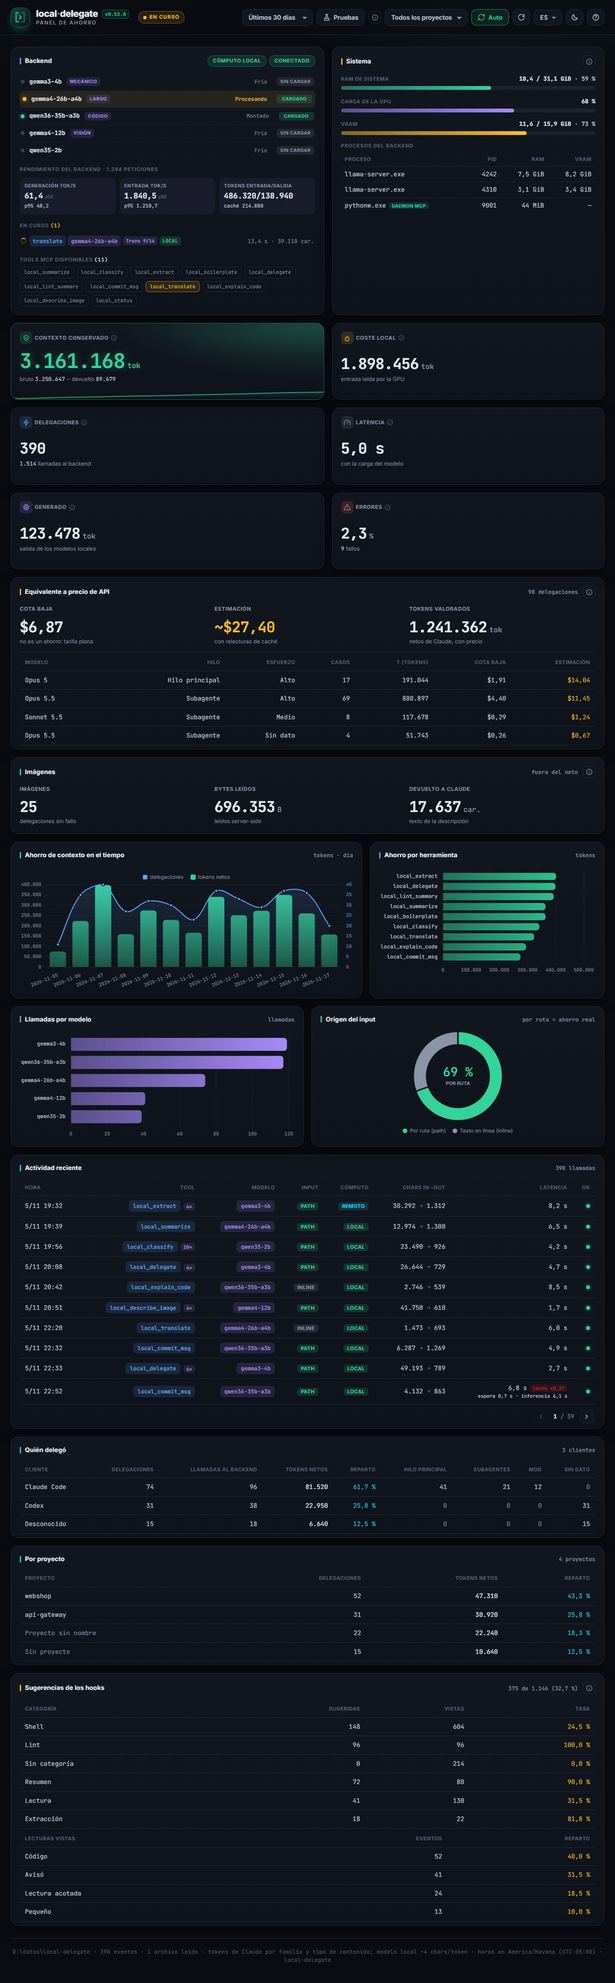
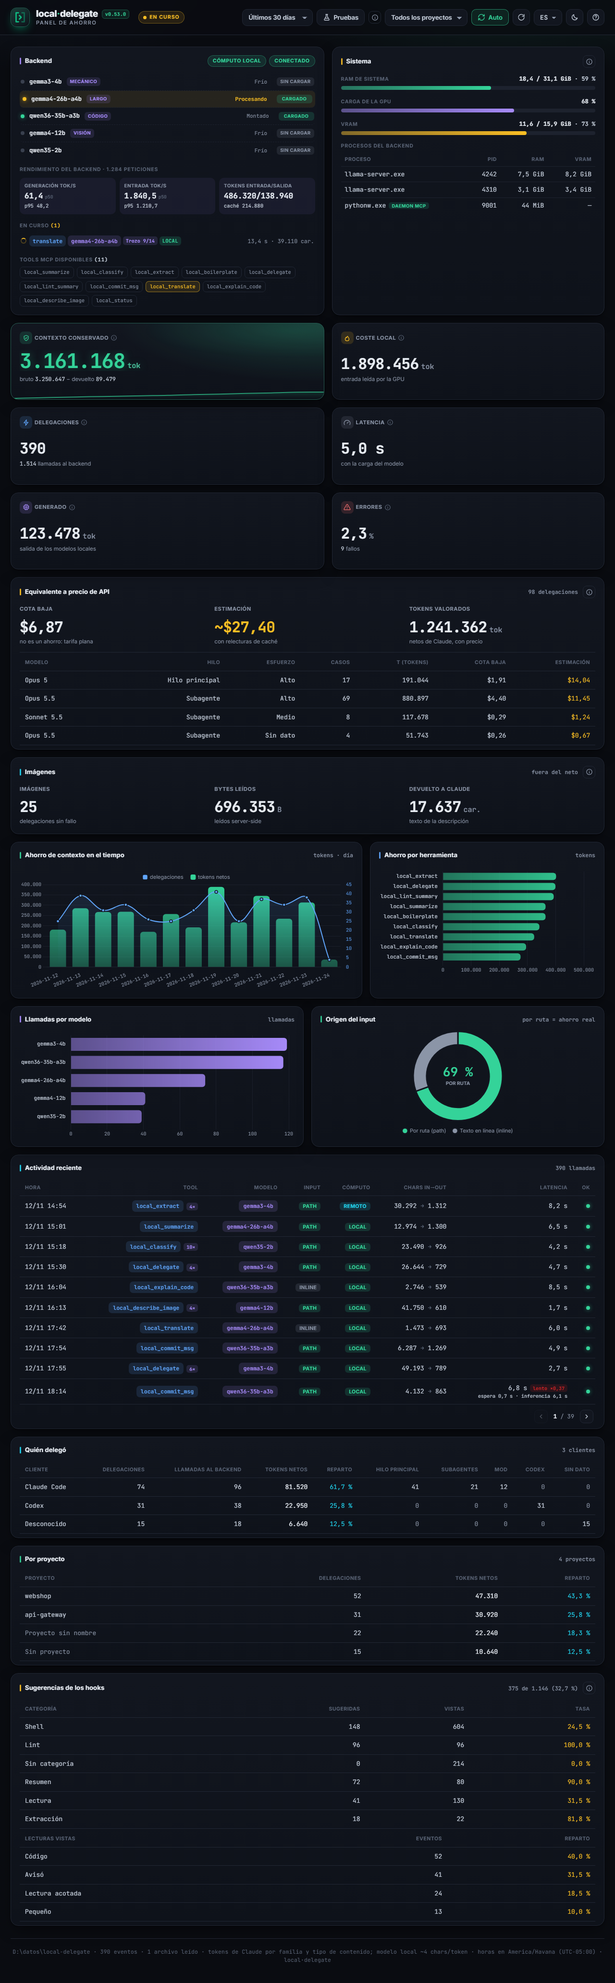
docs(codex): matriz de capacidades al día, capturas con la columna Codex y pasos de la prueba real (#669, #670, #671)
- Codex-capabilities.md: cuatro hooks; atribución por sesión y guard de lectura implementados y configurados desde la 0.53.0.
- Capturas del panel claro/oscuro regeneradas (0.53.0).
- Evidencia en vivo de #665 y #684 (ventana de prueba w-20261123T105026Z) y pasos de la prueba con Codex real.

diff --git a/.sdd/changes/codex-issues-audit-2026-11-23.md b/.sdd/changes/codex-issues-audit-2026-11-23.md
@@ -1,0 +1,129 @@
+# Auditoría: qué falta para cerrar #669, #670 y #671 (Codex nativo)
+
+- Fecha: 2026-11-23, 07:44 hora de Uruguay. Revisión de `main`: `a776da37` (0.53.0), CI de `main` en verde.
+- Fuentes: los tres issues (sin comentarios), nota del vault
+  `projects/local-delegate/jornada-2026-11-16-diez-issues-y-codex-nativo.md`, memoria
+  `cerrar-el-sdd-es-parte-de-terminar.md`, artefactos de los SDD y código de `main`.
+- Solo lectura: sin cambios de código, sin cerrar SDD, sin commits. `local-delegate doctor` se corrió
+  una vez (solo lectura).
+
+## Hallazgos que cambian el plan
+
+1. **En esta PC los hooks de Codex no están instalados.** `doctor` (0.53.0) dice: «hooks de
+   local-delegate en Codex: no instalados en `~\.codex\hooks.json`» y «MCP en Codex: entrada http
+   puesta a mano (sin marcadores)» [WARN]. La prueba con Codex real no ha empezado. Codex CLI 0.169.0
+   está instalado **en la PC**, así que la prueba se puede hacer aquí; la Mac solo hace falta para
+   repetirla allí o para Codex Desktop si solo está en la Mac.
+2. **La matriz de capacidades de la wiki está desfasada** (`docs/wiki/Codex-capabilities.md:28-34`):
+   la fila «Hooks consultivos» nombra solo `UserPromptSubmit` y `SubagentStart` (ya son cuatro hooks),
+   y las filas «Atribución por sesión» y «Lectura automática y guard de escritura» dicen «no disponible
+   todavía, se hace en #669/#670», cuando ambas se publicaron en la 0.53.0. El README
+   (`README.md:393-407`) y `Integration-install.md:484-543` sí están al día. Esto incumple el criterio
+   de #671 «README/recetas/doctor alineados con capacidades reales».
+3. Los issues #665, #684 y #687 ya están **cerrados** en GitHub, pero sus SDD siguen abiertos y la
+   jornada del 2026-11-16 dejó pendiente su prueba en vivo.
+
+## #669 — Entrega Codex nativa (hooks, instalador, diagnóstico, atribución)
+
+| Criterio | Estado | Evidencia |
+| --- | --- | --- |
+| Adaptador con la forma de hooks real de Codex | hecho | `src/local_delegate/codex_hooks.py:73-80` (`SPECS`: 4 hooks); PR #682 y #686 |
+| Cubrir prompts, subagentes, shell, MCP y code mode | hecho (código y fixtures) | `tests/fixtures/codex_hooks/` (bash, apply_patch, mcp, mcp_subagent, code_mode, other_mcp, esquemas oficiales de `rust-v0.169.0`); `tests/test_codex_attribution.py:169,381` |
+| install/update/doctor/uninstall, idempotencia, respaldo, coexistencia | hecho | `install.py:2964-2993` (`_uninstall_codex_hooks_action`), `install.py:3528`; `checks.py:1365-1400`; wiki `Integration-install.md:484-543` |
+| Controles negativos (matcher equivocado, campos ausentes) | hecho | review deep de `codex-session-attribution` (REQ-002, REQ-005) |
+| No generar `trusted_hash` ni saltarse la revisión de confianza | hecho | `checks.py:1396` y `codex_hooks.py:320-335` solo leen `[hooks.state]` |
+| Atribución solo con datos observados; desconocido si faltan | hecho en código | `codex-session-attribution/handoff.md` (Decisions); doc en `Savings-and-metrics.md:826` |
+| Telemetría global frente a atribución por sesión documentada | hecho | `Integration-install.md` («Telemetría global y atribución por sesión») |
+| Falla en abierto con backend caído | hecho (tests) | REQ-003 de #670 y pruebas de `hook_common`; sin prueba real |
+| **Codex real: config estricta sin warning, hook que despacha, delegación identificada** | **falta** | REQ-012 «no»; pasos en `codex-session-attribution/handoff.md:41-61`; en la PC ni siquiera están instalados |
+| **Capturas del panel claro/oscuro (columna «Codex»)** | **falta** | REQ-008 «partial», hallazgo F4 de `review.md` |
+| Checks distinguen configurado, cargado y probado | hecho en `doctor` (aprobados N de 4 + hora de despacho) | `Integration-install.md:526-530` |
+
+Esfuerzo: capturas del panel ~15 min de agente (navegador headless, con cerrojo y máquina tranquila);
+prueba real ~30 min de Yohan (aprobar en `/hooks`) más ~15 min de agente para revisar el log de uso;
+cierre del SDD ~10 min.
+
+## #670 — Resumen de lecturas y guard de escritura
+
+| Criterio | Estado | Evidencia |
+| --- | --- | --- |
+| Vía técnica investigada y documentada (deny de `PreToolUse`) | hecho | `codex-read-summary-write-guard/handoff.md` (Decisions); wiki `Integration-install.md:545-` |
+| Prosa grande, código, rangos y acumulada, shell, MCP, `apply_patch` | hecho con fixtures | `verification.md` REQ-002..REQ-007; `tests/test_codex_reads.py` |
+| Resumen inválido o backend caído → la lectura real pasa | hecho (tests) | REQ-003 |
+| Guard hasta lectura literal; alcance por agente; sobrevive a otro proceso | hecho (tests) | REQ-005, REQ-006 |
+| Sin secretos en estado/logs | hecho (tests) | REQ-009 |
+| **Prueba real con centinela** (el original no entra al contexto; `apply_patch` rechazado y levantado; daemon parado; forma del `command` en Windows) | **falta** | `verification.md` «Deviations»; wiki `Integration-install.md:592` |
+| **Revisión de resultado deep** (2 jueces + seguridad) | **falta** | `review.md` es la plantilla con TBD |
+| Puerta `quality` | falta aprobarla | el CI completo del PR #686 ya está en verde: es la evidencia |
+
+Esfuerzo: revisión deep ~1 h de agentes (2 jueces + revisor de seguridad, en serie por la RAM);
+prueba real ~30 min de Yohan; cierre ~15 min.
+
+## #671 — Matriz de capacidades
+
+| Criterio | Estado | Evidencia |
+| --- | --- | --- |
+| Tabla por superficie con estados implementado/configurado/cargado/probado/no disponible | hecho, **pero desfasada** | `docs/wiki/Codex-capabilities.md:13-34` (ver hallazgo 2) |
+| Contraste con la fuente y runtime de Codex CLI | hecho | `verification.md` REQ-004 (`codex debug prompt-input`: 11 tools encendidas, 0 apagadas) |
+| Alternativa para tools fijadas (`--codex-direct-tools`) | hecho | `tests/test_codex_direct_tools.py`; README `:484-493` |
+| Comandos sin modelo y barra de estado declarados «no disponible» con fuente | hecho | `Codex-capabilities.md:83-113` |
+| **Codex Desktop** | **falta** | `Codex-capabilities.md:114-121`, punto 5 |
+| **Prueba en vivo de tools directas** | **falta** | mismos pasos 1-4 |
+| Tarjeta de seguimiento «subcomando de CLI para `!` en Codex» | falta comprobar/crear en Project 3 | `codex-capability-matrix/handoff.md:225` |
+
+Esfuerzo: actualizar la matriz ~20 min de agente (más `tests/test_wiki.py` con cerrojo); prueba en
+vivo CLI ~10 min y Desktop ~10 min de Yohan; cierre ~5 min.
+
+## Los cinco SDD abiertos
+
+`personal-harness sdd check` (solo lectura) sobre cada uno; ninguno salta estados, así que la cadena va
+entera. Todos avisan `commands-undeclared` (sin `.sdd/project.json`), que no bloquea.
+
+| SDD | Estado | Check | Paso que falta y comandos |
+| --- | --- | --- | --- |
+| `codex-session-attribution` (#669) | result-review | ok | capturas + prueba real; luego `sdd approve codex-session-attribution conformance --evidence "<capturas y prueba Codex>"` → `sdd transition codex-session-attribution closing --reason "<...>"` → `sdd approve codex-session-attribution memory --evidence "<nota del vault>"` → `sdd transition codex-session-attribution closed --reason "<...>"` |
+| `codex-read-summary-write-guard` (#670) | verifying | ok, 3 warnings de `review.md` | `sdd approve codex-read-summary-write-guard quality --evidence "CI completo del PR #686 en verde (0.53.0)"` → `sdd transition ... result-review` → rellenar `review.md` (deep) → prueba real → `approve ... conformance` → `transition ... closing` → `approve ... memory` → `transition ... closed` |
+| `codex-capability-matrix` (#671) | closing | ok | `sdd approve codex-capability-matrix memory --evidence "<nota>"` → `sdd transition codex-capability-matrix closed --reason "<...>"` (antes, arreglar la matriz desfasada, o hacerlo en un cambio aparte) |
+| `summarize-test-totals-negation` (#684) | verifying | ok, 3 warnings de `review.md` | prueba en vivo de `local_summarize` sobre salida de pytest; `approve ... quality --evidence "CI del PR #686"` → `transition ... result-review` → `review.md` (lite: standard, 2 jueces) → `approve conformance` → `closing` → `approve memory` → `closed` |
+| `extract-diff-files-names` (#665) | result-review | **3 errores**: `review.md` en plantilla (level, security, verdict) | rellenar `review.md` (2 jueces) + prueba en vivo de `local_extract` sobre un `.patch` grande → `approve ... conformance` → `closing` → `approve memory` → `closed` |
+
+Todos los comandos llevan el prefijo `personal-harness`.
+
+## Plan para cerrar hoy
+
+**Sin Codex real (agentes; máximo 2 con código a la vez, pesados con `pesado.sh`):**
+
+1. Agente A (~20 min): poner al día `docs/wiki/Codex-capabilities.md` (cuatro hooks; atribución y
+   lectura como «implementado, configurado», «probado» solo tras la prueba real) y correr
+   `tests/test_wiki.py`. PR pequeño.
+2. Agente B (~1 h): revisión de resultado deep de `codex-read-summary-write-guard` y revisión standard
+   de `extract-diff-files-names` y `summarize-test-totals-negation`; rellena los tres `review.md`.
+3. Agente C, con la máquina tranquila (~15 min): capturas claro/oscuro del panel con
+   `scripts/dev/capture_dashboard.py`.
+4. Agente D (~20 min): pruebas en vivo de #684 y #665/#687 contra el daemon, marcadas con
+   `test-window`.
+5. Sesión principal: `local-delegate install --clients codex` en la PC (deja los hooks y la entrada MCP
+   con marcadores; lo puede hacer el agente, no necesita a Yohan) y crear la tarjeta del `!` en
+   Project 3.
+
+**Con Codex real (Yohan; en la PC, que ya tiene Codex 0.169.0; la Mac solo para repetir o para
+Desktop):** ~45 min en total.
+
+1. `/hooks` en Codex: aprobar los cuatro; `doctor` debe decir «aprobados: 4 de 4».
+2. #669: delegación en el hilo principal, desde un subagente y desde code mode; un agente revisa los
+   campos del log de uso (`tool_use_id`, `caller_session_key`, `caller_src: codex-hook`,
+   `caller_model`, `caller_kind`).
+3. #670: centinela en un `.md` grande, `apply_patch` rechazado y luego levantado con un tramo literal,
+   daemon parado (la lectura pasa).
+4. #671: `install --clients codex --codex-direct-tools`, ver que el modelo llama a `local_summarize`
+   sin `tool_search`, y repetirlo en Codex Desktop.
+
+**Cierre:** las cadenas de puertas de la tabla anterior, comentario de evidencia en cada issue, cerrar
+#669/#670/#671, tarjetas a «Hecho» y nota del vault (puerta `memory`). Total aproximado: ~3 h de
+agentes en serie por recursos + ~45 min de Yohan.
+
+## Nota sobre `local-delegate`
+
+En este encargo las tools `local_*` no estaban disponibles (ToolSearch no encontró ninguna), aunque el
+hook de lectura siguió recomendando cargarlas. Llamadas `local_*` hechas: 0. Los artefactos leídos
+eran pequeños (menos de 8 KB) y se leyeron por rangos.

diff --git a/.sdd/changes/codex-pasos-para-yohan.md b/.sdd/changes/codex-pasos-para-yohan.md
@@ -1,0 +1,109 @@
+# Prueba con Codex real en la PC: qué tienes que hacer tú (#669, #670, #671)
+
+Escrito el 2026-11-23. Lo demás ya está hecho: los cuatro hooks están en `~\.codex\hooks.json`
+(`doctor`: «configurados 4 de 4; aprobados 0 de 4»), tus hooks de antes siguen intactos y la entrada
+MCP de Codex (http a `127.0.0.1:9393/mcp`) no se tocó. Copia de antes en la carpeta `codex-backup`
+del scratchpad de la sesión. Tiempo estimado: unos 45 min.
+
+## 0. Antes de empezar (1 min)
+
+```powershell
+local-delegate test-window start --label codex-real-669-670-671   # apunta el id que imprime
+local-delegate doctor | Select-String "Codex"
+```
+
+## 1. Aprobar los hooks (#669, 2 min)
+
+1. Abre Codex (`codex`) en cualquier carpeta y escribe `/hooks`.
+2. Aprueba los cuatro: `codex-prompt`, `codex-subagent-start`, `codex-tool-guard`, `codex-mcp-call`.
+   No toques los tuyos (`advise_delegate_read`, `pre-tool-use.mjs`, `advise_lint_summary`, relevo).
+3. Sal de Codex y corre `local-delegate doctor`: debe decir «aprobados en /hooks: 4 de 4». Si dice
+   «0 de 4» tras aprobarlos, para aquí y avísame: es un fallo.
+
+## 2. Delegaciones atribuidas por sesión (#669, 10 min)
+
+En **una sola sesión nueva** de Codex, abierta en `D:\Projects\local-delegate`, pide en orden:
+
+1. Hilo principal: `resume README.md con local_summarize en cinco viñetas`.
+2. Subagente: `lanza un subagente que resuma docs/wiki/Tools.md con local_summarize y te dé el resultado`.
+3. Code mode (si lo tienes encendido): `desde código, llama a local_extract sobre CHANGELOG.md con el campo version`.
+4. Un prompt mecánico sin nombrar la tool: `extrae las versiones que aparecen en CHANGELOG.md`
+   (debe salir el aviso de `codex-prompt` a favor de `local_extract`).
+
+Apunta la hora (Uruguay) del primer y del último prompt. No cierres la sesión hasta el paso 3.
+
+## 3. Resumen de lecturas y guard de escritura (#670, 15 min)
+
+Crea el centinela fuera del repo (prosa de unos 12 KB con una palabra rara solo a mitad):
+
+```powershell
+$d = "$env:TEMP\ld-centinela"; New-Item -ItemType Directory -Force $d | Out-Null
+$p = 1..60 | ForEach-Object { "Párrafo $_ de prueba: el inventario del almacén se revisa cada semana y las diferencias se anotan en el registro general para la auditoría del trimestre." }
+$p[30] = $p[30] + " La clave interna de este documento es ZEBRA-4417."
+Set-Content -Path "$d\centinela.md" -Value ($p -join "`n`n") -Encoding utf8
+(Get-Item "$d\centinela.md").Length   # debe pasar de 8192
+```
+
+Abre **otra** sesión de Codex en esa carpeta (`cd $env:TEMP\ld-centinela; codex`) y pide:
+
+1. `lee centinela.md con cat y dime de qué trata`. Debe contestar con el resumen; en pantalla, el
+   aviso de que el hook bloqueó la orden.
+2. `¿qué palabra rara o clave aparece a mitad del fichero?` No debe saber `ZEBRA-4417` (si la dice,
+   el original entró al contexto: fallo).
+3. `cambia la primera línea de centinela.md por "Título de prueba"`. El `apply_patch` debe
+   **rechazarse** con el aviso de leer un tramo literal.
+4. `lee las primeras 40 líneas con Get-Content -TotalCount 40 y vuelve a intentar el cambio`. Ahora
+   el cambio **pasa**.
+5. Daemon parado (la lectura debe pasar tal cual). En otra consola:
+
+   ```powershell
+   $pid9393 = (Get-NetTCPConnection -LocalPort 9393 -State Listen).OwningProcess
+   schtasks /End /TN LocalDelegateDaemon; Stop-Process -Id $pid9393 -Force
+   ```
+
+   En la sesión del centinela pide de nuevo `lee centinela.md con cat`: ahora Codex lee el fichero
+   entero. Vuelve a arrancar el daemon: `schtasks /Run /TN LocalDelegateDaemon` y comprueba
+   `local-delegate doctor` (backend conectado).
+
+## 4. Tools directas sin `tool_search` (#671, 10 min)
+
+```powershell
+local-delegate install --clients codex --mcp-mode http --codex-direct-tools --no-hooks --no-memory --no-skill --dry-run
+```
+
+Debe enseñar la misma entrada (`url = "http://127.0.0.1:9393/mcp"`, tu `bearer_token_env_var`) más
+`omit_tools_from = ["deferred"]`. Si es así, repítelo sin `--dry-run` y acepta reemplazar la entrada
+puesta a mano (deja `config.toml.bak`). Abre una sesión nueva de Codex y pide
+`resume docs/wiki/Codex-capabilities.md en cinco viñetas`: el modelo debe llamar a
+`local_summarize` **sin** pasar antes por `tool_search`. Repite ese mismo prompt en **Codex Desktop**
+si lo tienes en la PC (si solo está en la Mac, dilo y queda para allí). Vuelta atrás, si no lo
+quieres encendido: el mismo comando con `--no-codex-direct-tools`.
+
+## 5. Al terminar
+
+```powershell
+local-delegate test-window stop <id del paso 0>
+local-delegate doctor | Select-String "Codex"
+```
+
+Dime: el id de la ventana, las horas de los pasos 2 y 3, si en el paso 3 Codex supo la palabra
+rara, si el `apply_patch` se rechazó y luego pasó, y si en el paso 4 hubo `tool_search`.
+
+## Qué miro yo después en el log (no hace falta que lo mires tú)
+
+- `usage-202611.jsonl` del `LOG_DIR`, filas de la ventana con `client: codex-mcp-client`: llevan
+  `tool_use_id` (el de code mode empieza por `exec-`), `caller_session_key` (la misma en las tres
+  delegaciones del paso 2, también la del subagente), `caller_src: codex-hook`, `caller_model` (el
+  de Codex), `caller_kind` `main`/`subagent` y `caller_agent_type` en la del subagente. Sin
+  `tool_use_id` o sin `caller_session_key`: el `_meta` no llega como se supuso. Con `tool_use_id`
+  pero sin `caller_src`: el hook no despachó (miro `codex-hooks-seen.json` y el `tool_name` real).
+- Filas con `client: local-delegate-codex-read` en el paso 3.1 (el resumen del centinela) y ninguna
+  en el 3.5 (daemon parado).
+- `<datos>\codex-read\<session_id>.jsonl` de la sesión del centinela: solo rutas, tramos y marcas,
+  nunca texto; el transcript de esa sesión en `~\.codex\sessions\…` no contiene `ZEBRA-4417`
+  antes del paso 3.5.
+- Forma real del `command` de PowerShell que Codex pasa al hook en Windows (para cerrar la duda de
+  `verification.md` de #670).
+- Panel: «Quién delegó» con la columna «Codex»; `/api/stats?session=<id>` solo con esa sesión.
+- Con eso: puerta `conformance` y cierre de `codex-session-attribution` y
+  `codex-read-summary-write-guard`, comentario de evidencia en #669, #670 y #671 y cierre de los tres.

diff --git a/docs/wiki/Codex-capabilities.md b/docs/wiki/Codex-capabilities.md
@@ -25,13 +25,13 @@ entrada del modelo, pero ninguna fila se da por buena en Desktop.
 | --- | --- | --- | --- | --- |
 | Servidor MCP | entrada en `~/.claude.json` | `[mcp_servers.local-delegate]` en `~/.codex/config.toml` | implementado, configurado, cargado | `install.codex_mcp_block`; `doctor` (`scaffold.mcp_codex`); Codex arranca el servidor y, con las tools directas, las pone en la entrada del modelo (`codex debug prompt-input`, abajo); sin ellas quedan tras `tool_search` |
 | Instrucciones | bloque en `CLAUDE.md` y skill | bloque en `~/.codex/AGENTS.md` | implementado, configurado | `install`, componente `memory` |
-| Hooks consultivos | plugin `local-delegate@local-delegate` | `~/.codex/hooks.json`: `UserPromptSubmit` y `SubagentStart` | implementado, configurado (corren solo tras aprobarlos en `/hooks`) | [Hooks de Codex](Integration-install.md#hooks-de-codex), `codex_hooks.SPECS` |
+| Hooks | plugin `local-delegate@local-delegate` | `~/.codex/hooks.json`: cuatro hooks, `UserPromptSubmit` (`codex-prompt`), `SubagentStart` (`codex-subagent-start`) y dos de `PreToolUse` (`codex-tool-guard` sobre shell, `apply_patch` y lecturas MCP; `codex-mcp-call` sobre las tools de local-delegate) | implementado, configurado (corren solo tras aprobarlos en `/hooks`); cargado y probado quedan para la prueba en vivo | [Hooks de Codex](Integration-install.md#hooks-de-codex), `codex_hooks.SPECS`; `doctor` dice cuántos están aprobados y cuándo despachó cada uno |
 | Tools fijadas | `mod/pinned-tools.js`: 4 tools con `isDeferred: false` | `omit_tools_from = ["deferred"]` en la tabla del servidor; **todas** las tools del servidor, no una a una | implementado (opcional), configurado, cargado (`codex debug prompt-input`); el efecto en una sesión real queda para la prueba en vivo | ver [Tools directas](#tools-directas-en-vez-de-tool_search) |
 | Comandos sin modelo | `mod/commands.js`: `/local-summarize`, `/local-commit`, `/local-lint` | no hay slash commands de usuario; solo `!comando` (shell sin turno del modelo) | no disponible | ver [Comandos sin modelo](#comandos-sin-modelo) |
 | Banda de estado | `mod/status.js`: `ui.render` sobre el prompt | `/statusline` y `tui.status_line`: lista de campos fijos de Codex | no disponible | ver [Barra de estado](#barra-de-estado) |
 | Panel de ahorro | panel web del daemon | el mismo panel web (`http://127.0.0.1:9393/`) | implementado (no depende del cliente) | [Savings & metrics](Savings-and-metrics.md) |
-| Atribución por sesión | hook `record_call.py` (`PreToolUse`) | hook `PreToolUse` de Codex | no disponible todavía | se hace en #669 |
-| Lectura automática y guard de escritura | mod de lectura y hooks de lectura | hooks de Codex sobre shell y `apply_patch` | no disponible todavía | se hace en #670 |
+| Atribución por sesión | hook `record_call.py` (`PreToolUse`) | `_meta` de cada llamada MCP (`callId`, `sessionId`) más la nota del hook `codex-mcp-call` (`PreToolUse`) | implementado, configurado (desde la 0.53.0); probado queda para la prueba en vivo | #669; [Hooks de Codex](Integration-install.md#hooks-de-codex) («Telemetría global y atribución por sesión»); [Savings & metrics](Savings-and-metrics.md#delegaciones-de-codex) |
+| Lectura automática y guard de escritura | mod de lectura y hooks de lectura | hook `codex-tool-guard` (`PreToolUse` con `permissionDecision: "deny"`) sobre shell, `apply_patch` y lecturas MCP | implementado, configurado (desde la 0.53.0); probado queda para la prueba en vivo con el centinela | #670; [Resumen de lecturas y guard de escritura](Integration-install.md#resumen-de-lecturas-y-guard-de-escritura-en-codex) |
 
 ## Tools directas en vez de `tool_search`
 

diff --git a/.sdd/changes/codex-session-attribution/review.md b/.sdd/changes/codex-session-attribution/review.md
@@ -18,7 +18,7 @@
 | REQ-005 | yes | yes | casos «nota de otro id» y «`codex-<id>.json` sin `client: codex`» añadidos (A-H2, B3) |
 | REQ-006 | yes | yes | control `claude-code` en cada caso |
 | REQ-007 | yes | yes | `excluded_by_reason == {"not_claude": 1}` |
-| REQ-008 | yes | partial | código y `/api/stats` probados; la tarjeta solo por su fuente; capturas claro/oscuro pendientes (A-H4, B4): las lanza la sesión principal |
+| REQ-008 | yes | yes | código y `/api/stats` probados; capturas claro/oscuro del 2026-11-23 (`docs/assets/dashboard.png` y `dashboard-light.png`, 0.53.0, contra el árbol con `scripts/dev/capture_dashboard.py`): la tarjeta «Quién delegó» enseña la columna «Codex» con 31 en la fila `Codex` y 0 en las demás |
 | REQ-009 | yes | yes | `?session=` de Codex |
 | REQ-010 | yes | yes | `codex` en `delegations_by_caller` |
 | REQ-011 | yes | yes | `doctor` distingue el hook que falta (B1) y lo prueba el paso de dos a tres (B2); docstrings y lista de `caller_src` al día (B5, B6) |
@@ -31,7 +31,7 @@
 | F1 | Falta el caso Codex con `claudecode/toolUseId` y sin `callId` | H1 | — | suspected | test añadido |
 | F2 | Falta el caso «nota de otro id» | H2 | B3 (variante: `client`) | confirmed | dos casos añadidos |
 | F3 | Fila de Codex sin nota recibe el respaldo de modelo de Claude en la fusión | H3 | — | suspected | aceptado: solo sirve a la densidad de filas ya excluidas del coste; el recibo en curso queda como antes a propósito (un fix no cambia otra cosa); si molesta en el panel, siguiente PR |
-| F4 | Capturas claro/oscuro de REQ-008 pendientes | H4 | B4 | confirmed | pendientes para la sesión principal; `conformance` no se aprueba hasta tenerlas |
+| F4 | Capturas claro/oscuro de REQ-008 pendientes | H4 | B4 | confirmed | hechas el 2026-11-23 (`docs/assets/dashboard.png`, `dashboard-light.png`; manifiestos con versión 0.53.0); la columna «Codex» se ve en los dos temas |
 | F5 | `hook_key` del test no salía de un fichero fusionado | H5 | — | suspected | test reescrito con `merge` + `inspect` + `config.toml` |
 | F6 | `agent_id`/`agent_type` sin forma ni tope | H6 | — | confirmed | `_shaped` con patrones acotados; test con control |
 | F7 | `doctor` decía «no son de esta versión… aprobar otra vez» para el hook que falta | — | B1 | suspected | texto propio `doctor.probe.codex_hooks.missing` (es/en) |
@@ -43,5 +43,7 @@
 
 ## Required follow-up
 
-- Capturas del panel en claro y oscuro (F4) antes de aprobar `conformance`.
-- Prueba con Codex real (REQ-012), pasos en `handoff.md`.
+- Capturas del panel en claro y oscuro (F4): hechas el 2026-11-23.
+- Prueba con Codex real (REQ-012), pasos en `handoff.md` y en `.sdd/changes/codex-pasos-para-yohan.md`;
+  hasta entonces `conformance` no se aprueba. Los hooks ya están instalados en la PC (doctor:
+  configurados 4 de 4, aprobados 0 de 4).

diff --git a/.sdd/changes/extract-diff-files-names/evidence/vivo-2026-11-23.md b/.sdd/changes/extract-diff-files-names/evidence/vivo-2026-11-23.md
@@ -1,0 +1,21 @@
+# Prueba en vivo de `local_extract` sobre un `.patch` sintético (2026-11-23)
+
+- Daemon instalado 0.53.0 (incluye #676), por `http://127.0.0.1:9393/mcp` con el token del puerto.
+- Ventana de prueba `w-20261123T105026Z` (`codex-cierre-sdd-665-684-vivo`), de 07:50:26 a 07:52:49
+  hora de Uruguay; 6 filas del log de uso dentro.
+- Entrada sintética: `format-patch` de 81 868 bytes y 1 766 líneas, con preámbulo de 8 líneas
+  (`From …`, `Subject: [PATCH] …`, `---`) antes del primer `diff --git`, 14 ficheros: 6 nuevos
+  (`@@ -0,0 +1,260 @@`) y 8 modificados con 2 hunks cada uno, y la firma `-- `/`2.47.0` al final.
+
+| Llamada | Resultado | Requisitos |
+| --- | --- | --- |
+| `fields=["ficheros_y_hunks_con_lineas","asunto"]` (48 s) | 14 entradas `ruta: primera-última (hunks: …)`; los rangos cuadran con el generador (p. ej. `modulo_00.py: 9-274 (hunks: 14-274)`, `modulo_06.py: 1605-1624 (hunks: 1609-1616, 1617-1624)`); `_local_delegate.diff_files.files = 14`; sin `warning`; `asunto` correcto | REQ-001, REQ-003 (preámbulo leído como diff) |
+| `fields=["changed_files_with_lines","lines_changed"]` (46 s) | 14 entradas `ruta: primera-última` por programa; `lines_changed` sigue siendo un recuento del modelo (680) | REQ-002 |
+
+Observaciones (no bloquean, fuera del alcance de este cambio):
+
+- El último hunk sale como `1757-1766`: incluye la firma `-- `/`2.47.0` de `format-patch` (el hunk
+  real acaba en 1764). El recorrido no corta el hunk por sus recuentos `-a,b +c,d`.
+- `lines_changed` = 680 lo da el modelo y es falso (el parche cambia 1 608 líneas). Es un recuento,
+  que REQ-002 deja al modelo a propósito; va como evidencia al análisis de causa común de las tools
+  de texto, no como issue suelto.

diff --git a/.sdd/changes/summarize-test-totals-negation/evidence/vivo-2026-11-23.md b/.sdd/changes/summarize-test-totals-negation/evidence/vivo-2026-11-23.md
@@ -1,0 +1,23 @@
+# Prueba en vivo de `local_summarize` sobre salida de pytest sintética (2026-11-23)
+
+- Daemon instalado 0.53.0 (incluye #684), por `http://127.0.0.1:9393/mcp` con el token del puerto.
+- Ventana de prueba `w-20261123T105026Z` (`codex-cierre-sdd-665-684-vivo`), de 07:50:26 a 07:52:49
+  hora de Uruguay.
+- Entradas sintéticas: (a) sesión de pytest de 1 373 caracteres con un fallo, tres `SKIPPED` y la
+  línea `1 failed, 210 passed, 3 skipped in 12.84s`; (b) sesión sin fallos con
+  `216 passed, 4 skipped in 3.10s`.
+
+| Llamada | Resumen | Aviso | Requisito |
+| --- | --- | --- | --- |
+| (a) con `path` y `focus` (6,6 s) | cuenta el fallo y «tres fueron omitidas»; cierra con «se identificaron fallos y saltos» | ninguno (correcto: no niega nada) | REQ-003 (sin falso positivo, con `path`) |
+| (a) con `text` (1,8 s) | «una prueba falló y 210 pasaron, con tres pruebas omitidas» | ninguno (correcto) | REQ-003 (con `text`) |
+| (b) con `text`, `max_words=8` | «Veintiocho pruebas pasaron, cuatro se saltaron» | ninguno (no niega saltos) | REQ-003 |
+| (b) con `text`, `max_words=12` | «216 pasaron, 4 se saltaron en 3.10 segundos» | ninguno (correcto) | REQ-003 |
+
+Lo que la prueba en vivo no pudo forzar: ningún resumen del modelo negó una categoría, así que el
+camino del aviso (REQ-002) no se vio contra el backend real; queda cubierto por
+`tests/test_summarize_runner_totals.py`, que lo ejerce con el resumen exacto del issue.
+
+Observaciones para el análisis de causa común de las tools de texto (no son de este cambio): el
+resumen (a) con `text` dice «Python 3.11.5» (era 3.11.15) y primero «dos pruebas fueron omitidas»
+y luego «tres»; el (b) con `max_words=8` dice «Veintiocho» (eran 216).

diff --git a/CHANGELOG.md b/CHANGELOG.md
@@ -36,6 +36,15 @@ y el proyecto usa [Versionado Semántico](https://semver.org/lang/es/).
   `knowledge/glossary.md` bajo `projects/knowledge/` pasaba sin aviso. Ahora una ruta con carpetas
   tiene que estar en el log tal cual, y también una carpeta que el resumen nombre sola.
 
+### Documentación
+
+- La matriz de capacidades de Codex (`docs/wiki/Codex-capabilities.md`) está al día con la 0.53.0:
+  la fila de hooks nombra los cuatro (`codex-prompt`, `codex-subagent-start`, `codex-tool-guard`,
+  `codex-mcp-call`), y la atribución por sesión y el resumen de lecturas con guard de escritura
+  pasan de «no disponible todavía» a «implementado, configurado», con «probado» pendiente de la
+  prueba con Codex real (#669, #670, #671).
+- Capturas del panel en claro y oscuro regeneradas con la columna «Codex» de «Quién delegó» (#669).
+
 ## [0.53.0] - 2026-11-16
 
 Codex recibe la delegación casi como Claude Code y `local_extract` desconfía mejor de sus propias
